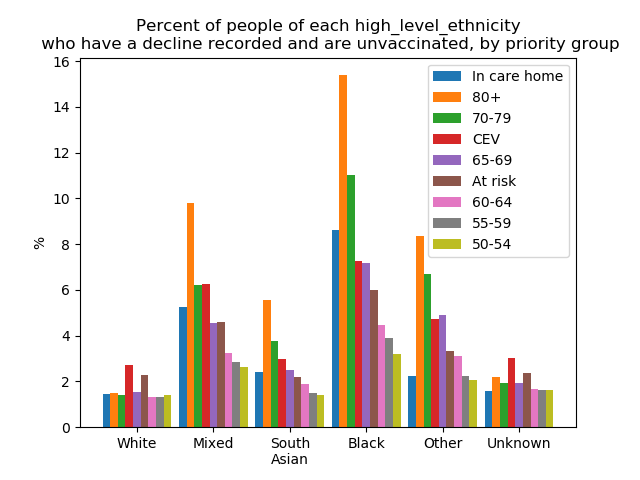
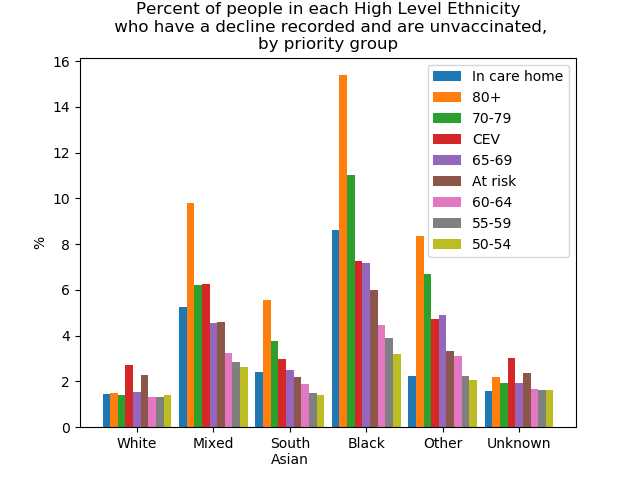
Tweak chart titles

Changed region(s): [[0.0625, 0.0, 0.9688, 0.125]]

diff --git a/analysis/generate_extra_combined_charts.py b/analysis/generate_extra_combined_charts.py
@@ -30,7 +30,8 @@ def plot_grouped_bar(backend="combined", output_dir="released_outputs/combined",
 
     # Add some text for labels, title and custom x-axis tick labels, etc.
     ax.set_ylabel('%')
-    ax.set_title(f'Percent of people of each {breakdown}\n who have a decline recorded and are unvaccinated, by priority group')
+    breakdown_title = breakdown.replace("_"," ").title().replace("Imd","IMD")
+    ax.set_title(f'Percent of people in each {breakdown_title}\n who have a decline recorded and are unvaccinated,\nby priority group')
     ax.set_xticks(x)
     labels_new = [l.replace(" ", "\n") for l in labels]
     ax.set_xticklabels(labels_new)
